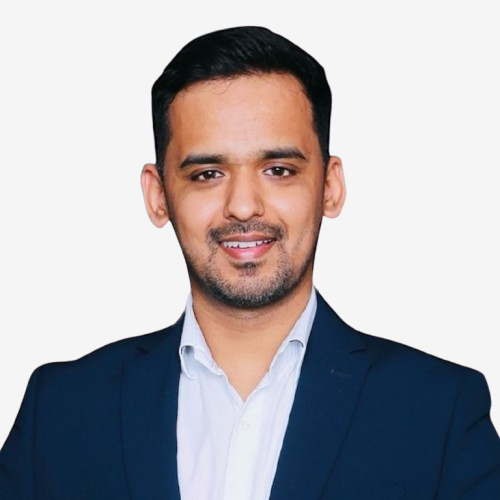
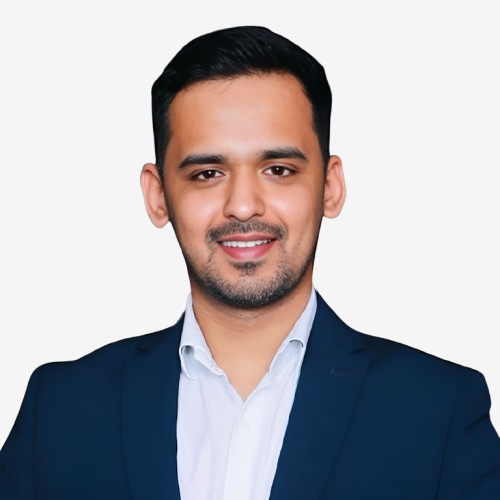
Updated pics of team members

diff --git a/about.html b/about.html
@@ -205,7 +205,7 @@
                 <div class="col-lg-3 col-md-6 wow fadeInUp" data-wow-delay="0.3s">
                     <div class="team-item bg-light">
                         <div class="overflow-hidden">
-                            <img class="img-fluid" src="img/team-2.jpg" alt="">
+                            <img class="img-fluid" src="img/team-2.png" alt="">
                         </div>
                         <div class="position-relative d-flex justify-content-center" style="margin-top: -23px;">
                             <div class="bg-light d-flex justify-content-center pt-2 px-1">

diff --git a/contact.html b/contact.html
@@ -204,7 +204,7 @@
                 <div class="col-lg-3 col-md-6 wow fadeInUp" data-wow-delay="0.3s">
                     <div class="team-item bg-light">
                         <div class="overflow-hidden">
-                            <img class="img-fluid" src="img/team-2.jpg" alt="">
+                            <img class="img-fluid" src="img/team-2.png" alt="">
                         </div>
                         <div class="position-relative d-flex justify-content-center" style="margin-top: -23px;">
                             <div class="bg-light d-flex justify-content-center pt-2 px-1">

diff --git a/index.html b/index.html
@@ -371,7 +371,7 @@
                 <div class="col-lg-3 col-md-6 wow fadeInUp" data-wow-delay="0.3s">
                     <div class="team-item bg-light">
                         <div class="overflow-hidden">
-                            <img class="img-fluid" src="img/team-2.jpg" alt="">
+                            <img class="img-fluid" src="img/team-2.png" alt="">
                         </div>
                         <div class="position-relative d-flex justify-content-center" style="margin-top: -23px;">
                             <div class="bg-light d-flex justify-content-center pt-2 px-1">

diff --git a/team.html b/team.html
@@ -117,7 +117,7 @@
                 <div class="col-lg-3 col-md-6 wow fadeInUp" data-wow-delay="0.3s">
                     <div class="team-item bg-light">
                         <div class="overflow-hidden">
-                            <img class="img-fluid" src="img/team-2.jpg" alt="">
+                            <img class="img-fluid" src="img/team-2.png" alt="">
                         </div>
                         <div class="position-relative d-flex justify-content-center" style="margin-top: -23px;">
                             <div class="bg-light d-flex justify-content-center pt-2 px-1">
